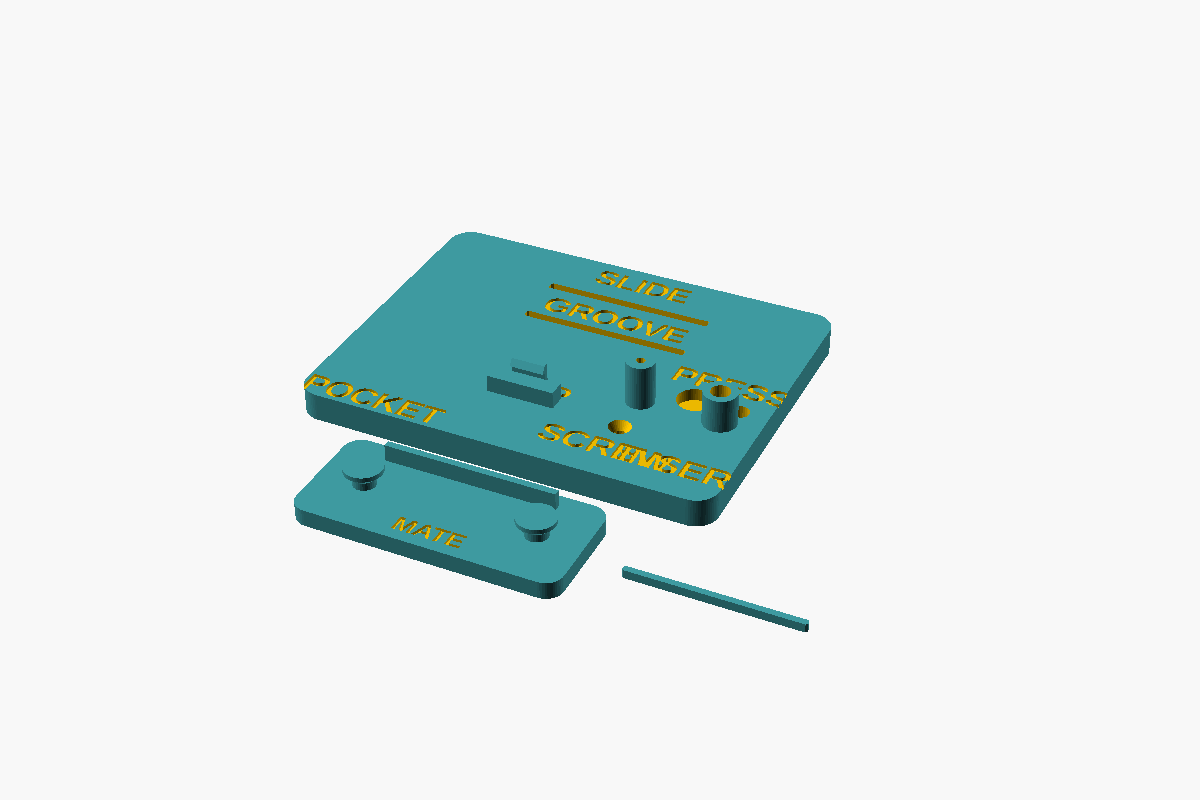
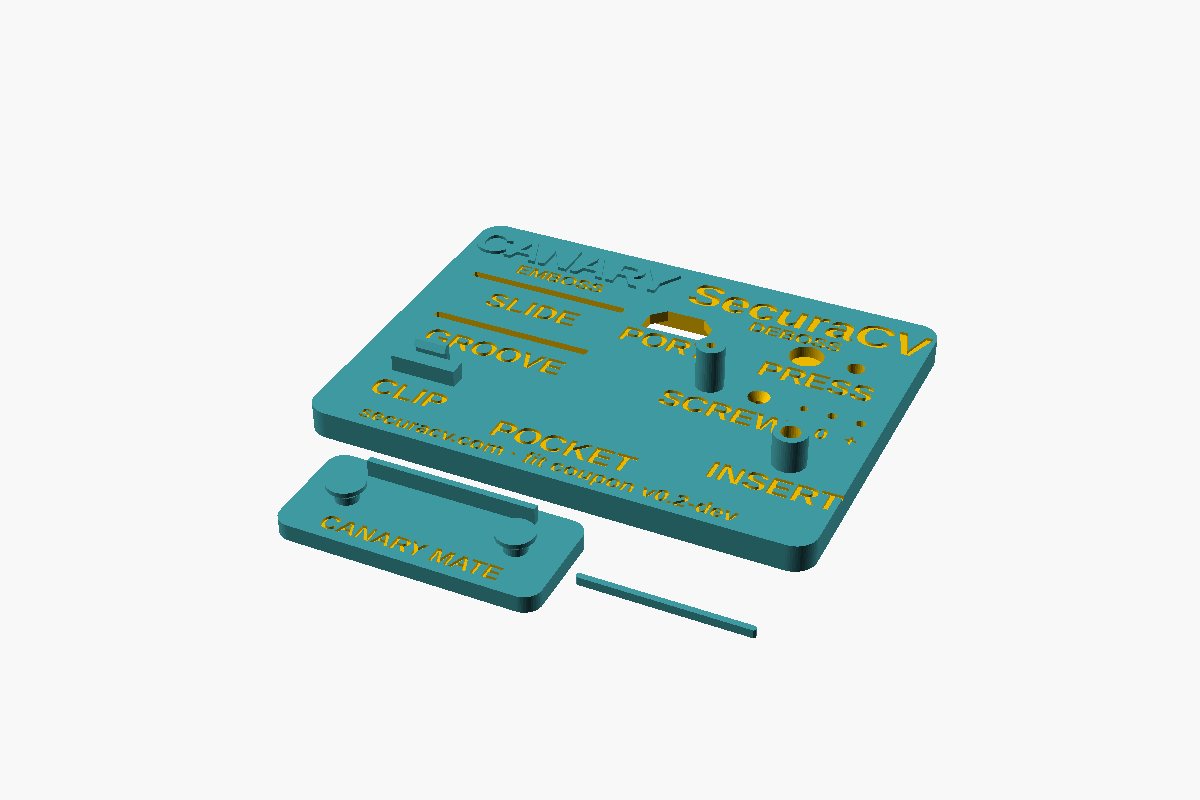
Fit coupon v0.2-dev: unsquished branded layout + emboss/deboss, port and screw-ladder stations (#1376)
* Fit coupon v0.2-dev: unsquish the layout, brand it, add port/ladder/wordmark stations

The v0.1 base crammed its labels: SCREW and INSERT overlapped into one
unreadable smear, POCKET rode the plate edge, and CLIP's label collided
with the clip itself. v0.2 regrids the plate (74x58 -> 90x68) so every
station gets clear air, and grows the coverage:

- EMBOSS/DEBOSS: raised "CANARY" + sunk "SecuraCV" wordmarks at the
  exact heights/depths the cases' branding and labels use — the brand
  is the legibility test.
- PORT: the WAP's 12 x 6.5 USB-C opening cut through a case-typical
  2 mm wall (counterbored from the back), so your actual cable head is
  the gauge for usb_w/usb_h.
- SCREW gains a -/0/+ pilot ladder (screw_d ± screw_step): drive the
  screw into each, keep the one that bites without splitting.
- POCKET keyholes turn horizontal (mate hangs in its natural
  orientation), the mate is branded, and a small-text colophon line
  doubles as the minimum-legibility test.
- CLIP/SLIDE/GROOVE/PRESS/INSERT stations carried over unchanged.

Rendered + admesh-verified locally (base/mate/strip each a single
watertight shell, no OpenSCAD warnings); preview PNG regenerated;
builder_manifest.json and canary-local catalogs regenerated
(gen_builder_manifest.py --check passes, catalog + lab tests pass).
Still v0.x-dev: render-verified only, not print-validated.

Claude-Session: https://claude.ai/code/session_01HFMBwASXbCn6hPzWpQjrtH
[…]

Changed region(s): [[0.2158, 0.2812, 0.8017, 0.8125]]

diff --git a/docs/hardware/enclosure/gen_builder_manifest.py b/docs/hardware/enclosure/gen_builder_manifest.py
@@ -317,15 +317,18 @@ CURATED = [
         "id": "coupon",
         "file": "canary_fit_coupon.scad",
         "name": "Fit coupon",
-        "tagline": "The ~25-minute calibration print. Every fit used across "
+        "tagline": "The first-print calibration plate. Every fit used across "
                    "the fleet's cases, as labelled test stations — print "
                    "this first, tune the three tolerances, reuse everywhere.",
-        "about": "Every fit the fleet's cases use, gathered on one small "
+        "about": "Every fit the fleet's cases use, gathered on one branded "
                  "test plate: snap clips, keyholes, magnet and light-pipe "
-                 "pockets, insert bores, the lid lip. A tight or loose "
-                 "station tells you which number to change — once, for "
-                 "every case after.",
-        "print_plan": "Print the Base in PETG first (~25 minutes). The Mate "
+                 "pockets, insert bores, the lid lip, the USB-C port "
+                 "opening, a −/0/+ screw-pilot ladder, and the embossed/"
+                 "debossed wordmarks every case's branding uses. A tight or "
+                 "loose station tells you which number to change — once, "
+                 "for every case after.",
+        "print_plan": "Print the Base in PETG first — it's small next to "
+                      "any case. The Mate "
                       "tests the keyholes and slide rib against it; the "
                       "Strip is the TPU gasket-squeeze test. Adjust the "
                       "three tolerances and reprint until stations fit.",
@@ -341,8 +344,9 @@ CURATED = [
         "part_info": {
             "all": "Base, mate and strip laid out together — in practice "
                    "print them separately (the strip is TPU).",
-            "base": "The station plate: clip, pocket and bore tests, each "
-                    "labelled with the parameter it exercises.",
+            "base": "The station plate: clip, pocket, bore, port and "
+                    "wordmark tests, each labelled with the parameter it "
+                    "exercises.",
             "mate": "T-studs and a slide rib that mate into the base's "
                     "keyhole and groove stations.",
             "strip": "A soft TPU bar for the gasket groove — tests the "

diff --git a/docs/hardware/enclosure/README.md b/docs/hardware/enclosure/README.md
@@ -13,7 +13,7 @@ You need: a filament printer (PETG recommended), the boards for whichever
 Canary you're building (see the [hardware guide](../README.md)), and 4× M2
 screws per case. Then:
 
-1. **Print the [fit coupon](./canary_fit_coupon.scad)** (~25 min). Its
+1. **Print the [fit coupon](./canary_fit_coupon.scad)** (one small plate). Its
    labelled stations test every fit used across this folder; if a station is
    tight or loose it names the parameter to adjust. Calibrate once, reuse for
    every part below.
@@ -158,7 +158,7 @@ measurements welcome.
 | **Vehicle mount kit** — VHB-taped dash plate with a 10° stud riser + an air-vent louver clip (extruded spring prongs snap over one blade). ⚠ cabins exceed +60 °C: USB power only, ASA, light colors | set `stud_gap` per case (36 = field) | <img src="./preview_dev_veh.png" width="230"> | [`canary_vehicle_mount.scad`](./canary_vehicle_mount.scad) |
 | **Body-worn clips** — belt leaf-spring clip (prints on its side: flex stays in-plane) + MOLLE/PALS weave plate, both on the two-stud interface; made for the field case's floor keyholes | check local recording law; pair with the sign | <img src="./preview_dev_wear.png" width="230"> | [`canary_wear_clip.scad`](./canary_wear_clip.scad) |
 | **Vision Pro mount** — bridges a Seeed reCamera Pro onto the shared stud interface: keyhole pockets on the back (hangs on any existing stud surface in this catalog), 1/4"-20 tripod counterbore and/or magnet pocket on the front (reCamera's confirmed mount options, [Canary Vision Pro doc](../canary_vision_pro_recamera.md)). No confirmed body dimensions yet — mounting interface only | measure your screw/nut; no bench unit yet | <img src="./preview_dev_visionpro.png" width="230"> | [`canary_vision_pro_mount.scad`](./canary_vision_pro_mount.scad) |
-| **Universal fit coupon** — ONE ~25 min print that calibrates every fit in the catalog: clip, keyhole+stud, slide, gasket, press, screw, insert — each station labelled with the parameter it tunes | **print this before any case** | <img src="./preview_dev_coupon.png" width="230"> | [`canary_fit_coupon.scad`](./canary_fit_coupon.scad) |
+| **Universal fit coupon** — ONE small print that calibrates every fit in the catalog: clip, keyhole+stud, slide, gasket, press, screw (+ a −/0/+ pilot ladder), insert, the USB-C port opening, and the embossed/debossed brand wordmarks — each station labelled with the parameter it tunes | **print this before any case** | <img src="./preview_dev_coupon.png" width="230"> | [`canary_fit_coupon.scad`](./canary_fit_coupon.scad) |
 | **Bench bring-up fixture** — labelled stations for XIAO + BZ1/DLED1/SW1/SW2 with a sliding magnet carriage for repeatable tamper tests (companion to [bench_bringup.md](../bench_bringup.md)) | wire channels per §5 pin map | <img src="./preview_dev_fixture.png" width="230"> | [`canary_bench_fixture.scad`](./canary_bench_fixture.scad) |
 | **Fleet provisioning dock** — N numbered reclined bays for bare XIAOs beside a USB hub (v1 runbook fleet flashing) | `n_bays` parametric | <img src="./preview_dev_dock.png" width="230"> | [`canary_dock.scad`](./canary_dock.scad) |
 | **Shop tools** — heat-set insert press guide (keeps inserts square) + doorbell button accent ring | tiny prints | — | [`canary_shop_tools.scad`](./canary_shop_tools.scad) |
